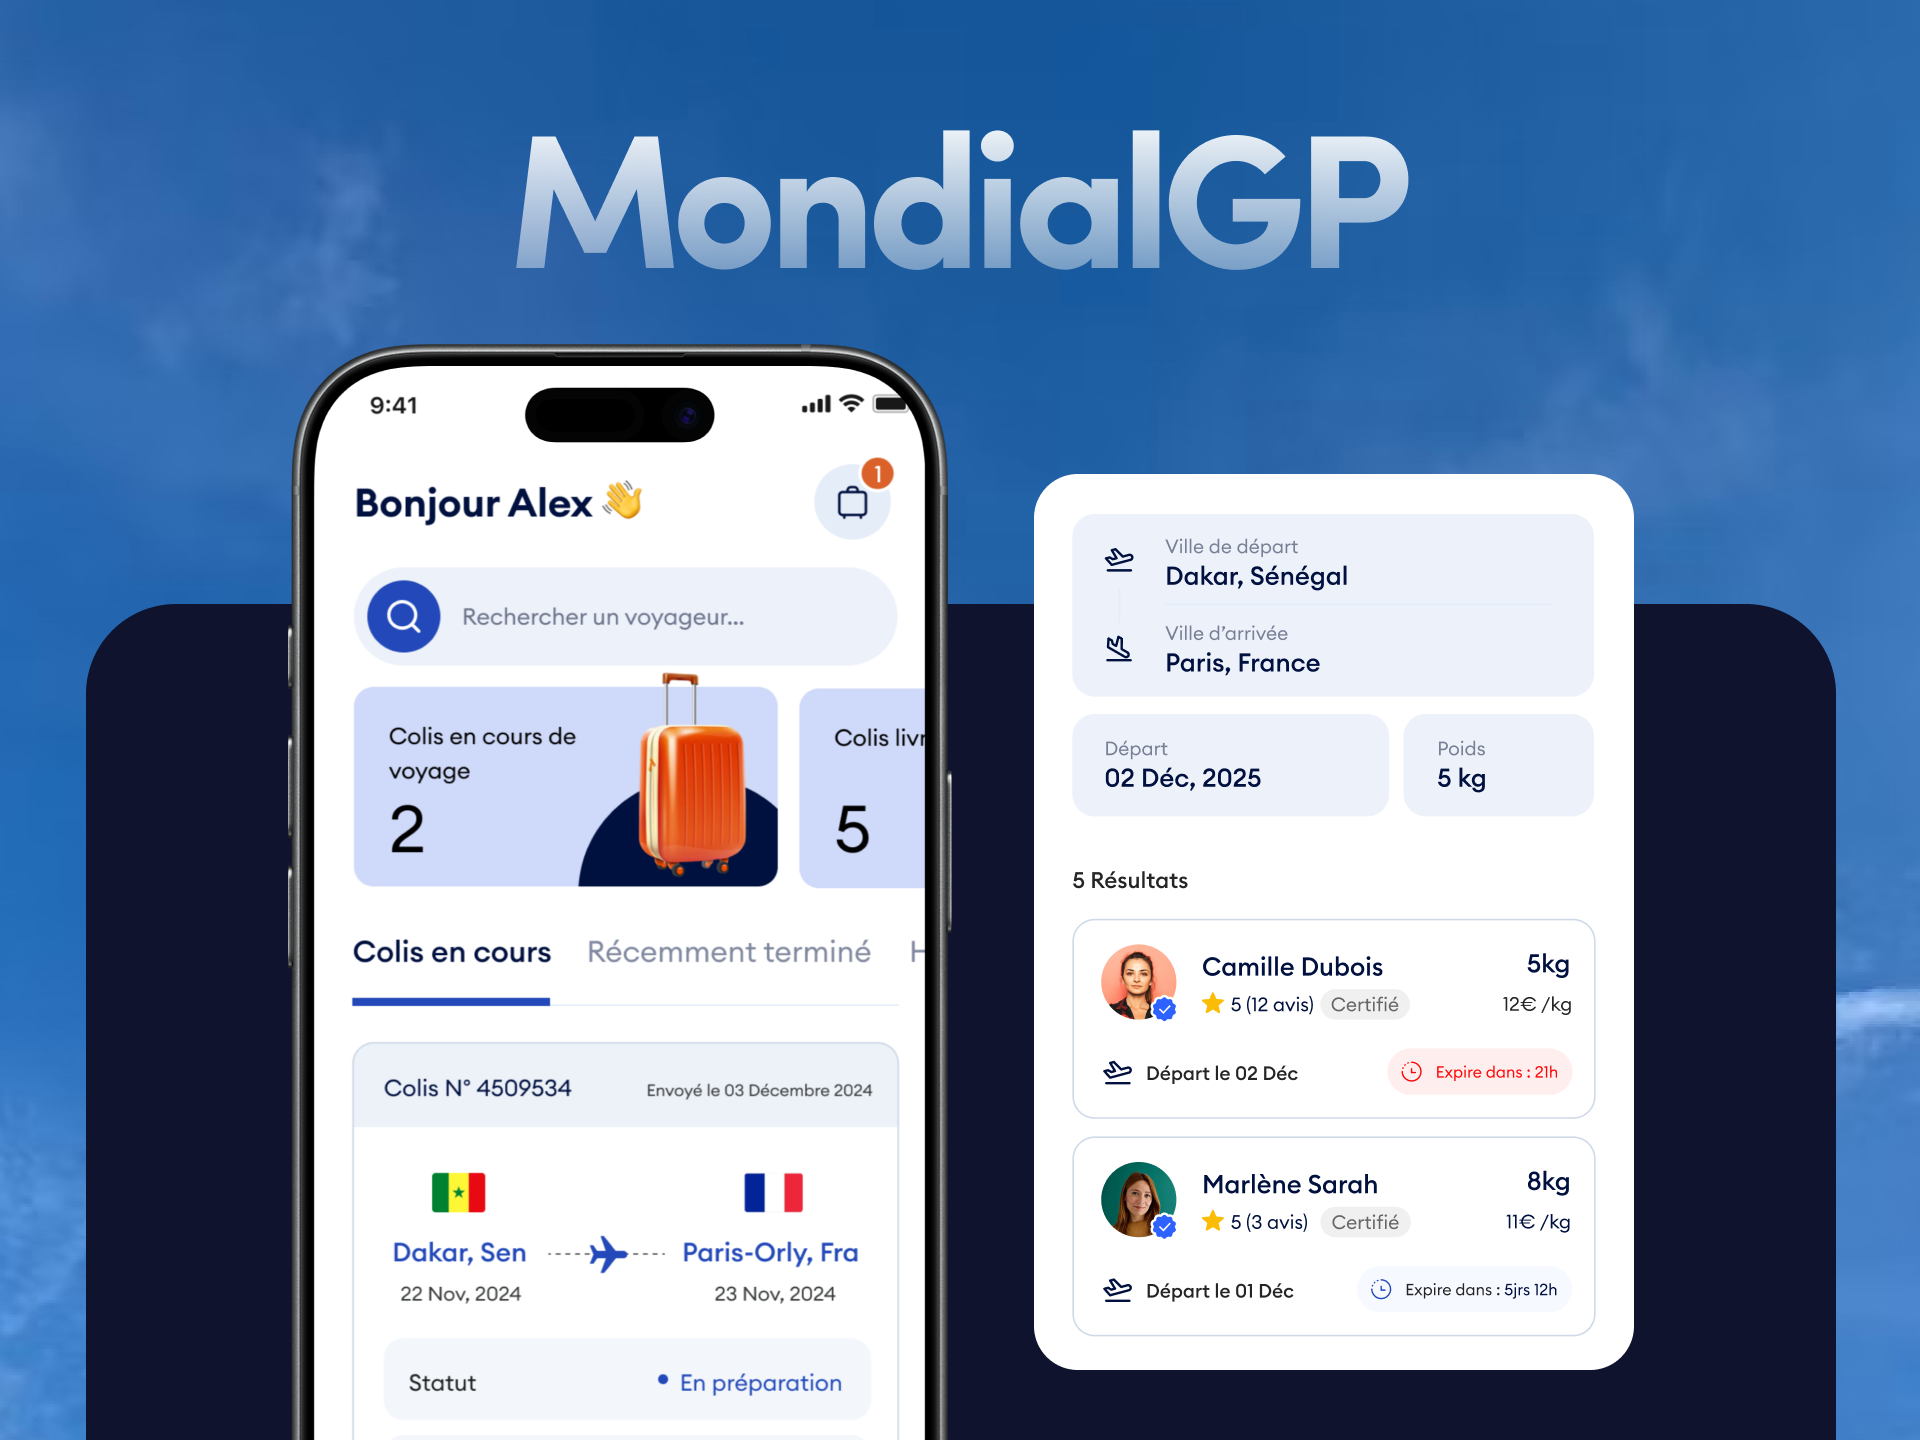
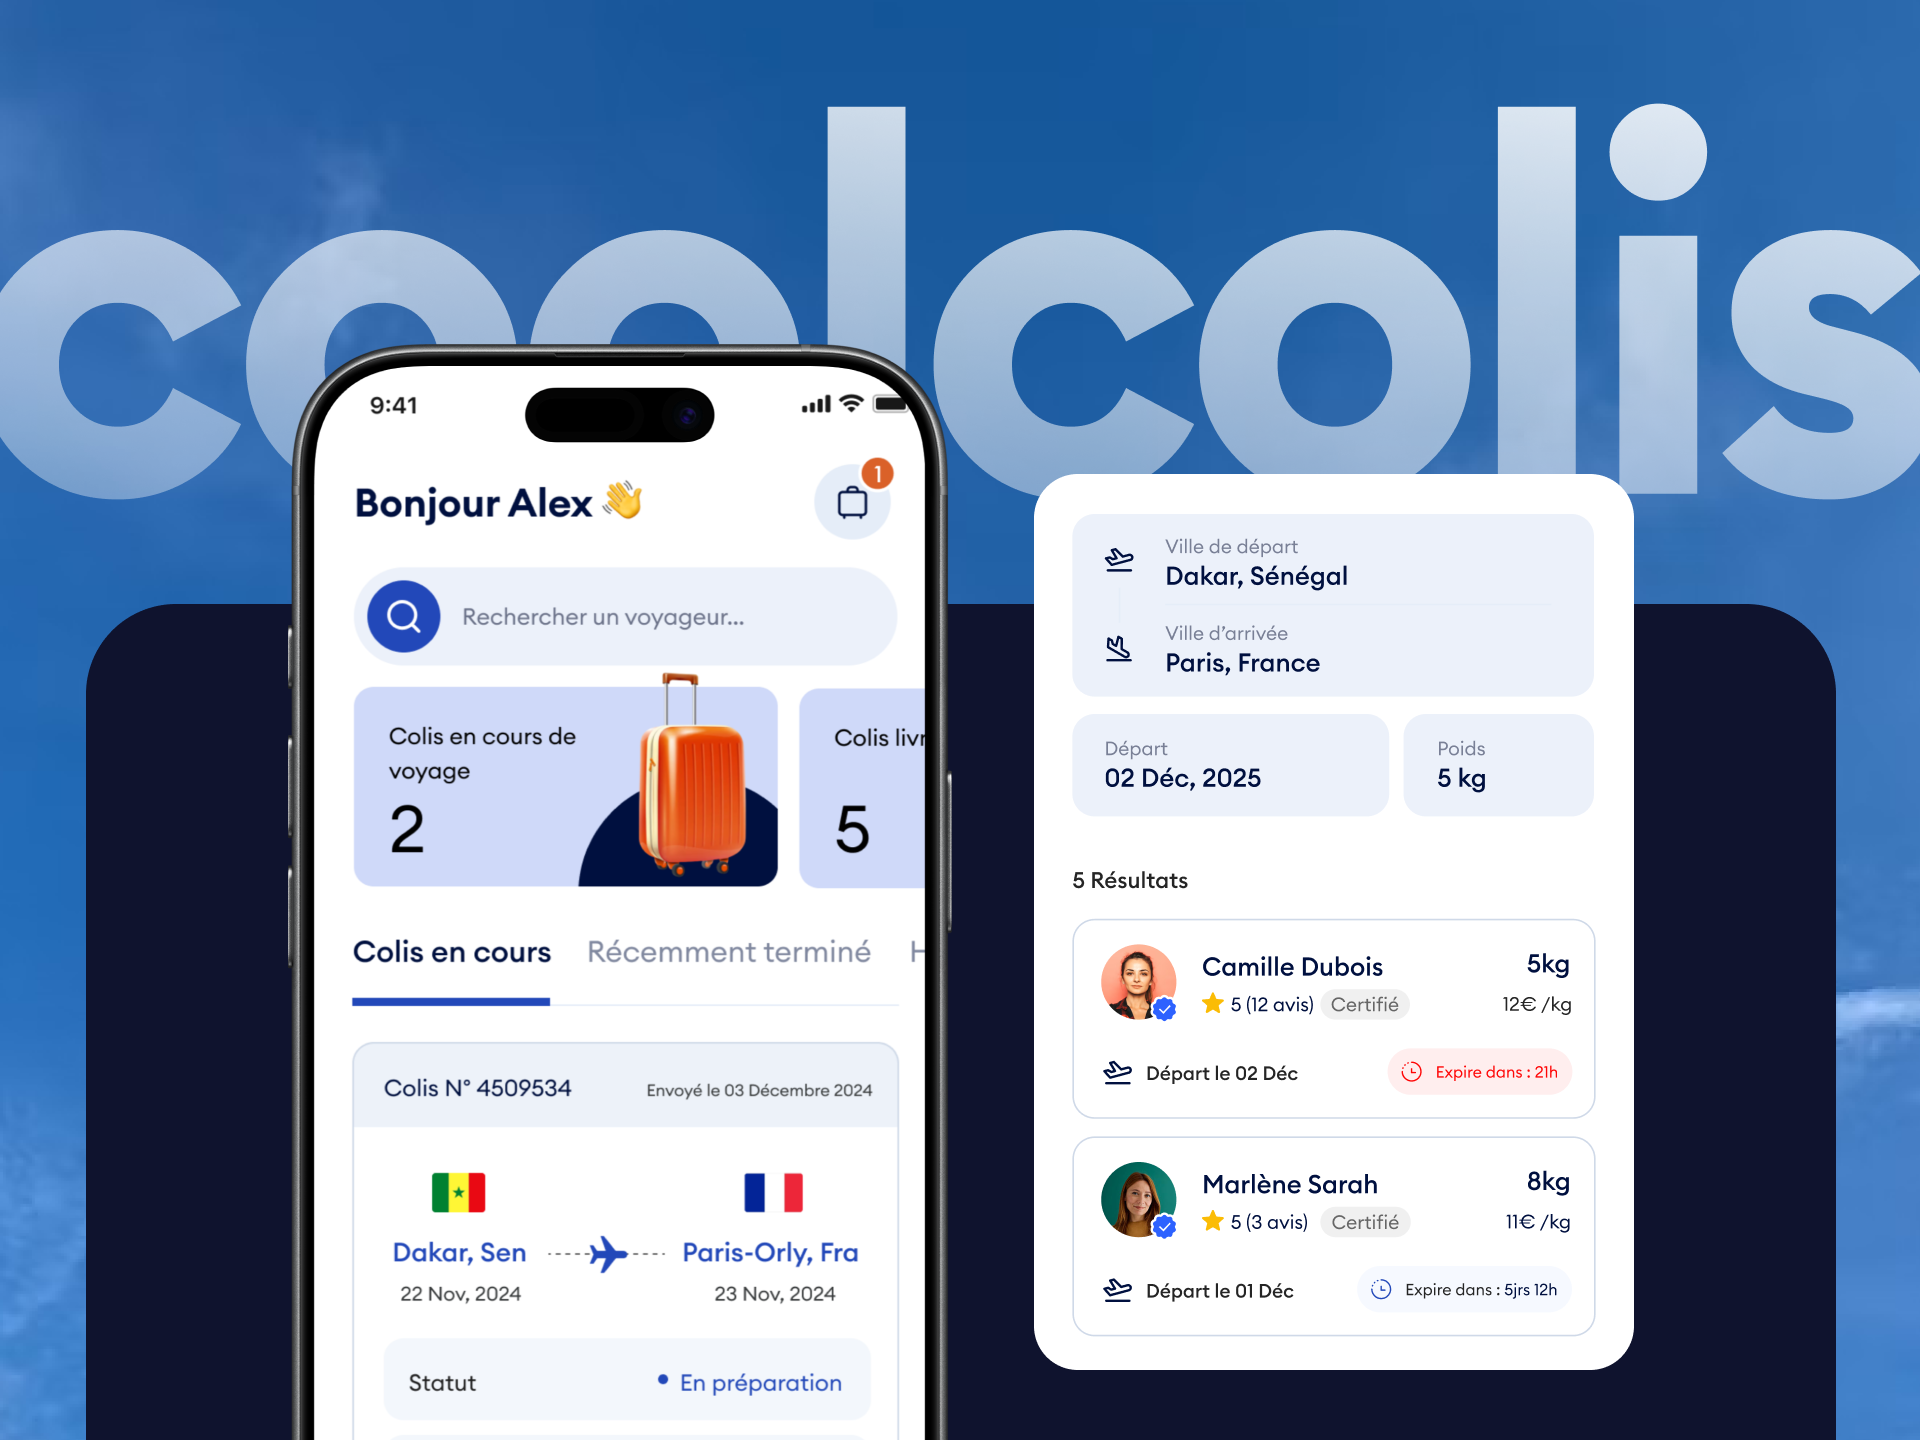
Update case study cover image and rename to Coolcolis

Changed region(s): [[0.0, 0.0625, 1.0, 0.3438]]

diff --git a/src/data/projects.ts b/src/data/projects.ts
@@ -20,8 +20,8 @@ export const projects: Project[] = [
   {
     slug: "fintech-mobile-redesign",
     title: {
-      fr: "MondialGP | Plateforme de crowdshipping",
-      en: "MondialGP | Crowdshipping Platform",
+      fr: "Coolcolis | Plateforme de crowdshipping",
+      en: "Coolcolis | Crowdshipping Platform",
     },
     tagline: {
       fr: "Simplifier le transfert d'argent pour de nouveaux utilisateurs.",
@@ -31,7 +31,7 @@ export const projects: Project[] = [
     year: "2024",
     tags: ["Application mobile", "Logistique"],
     gradient: ["#fdba74", "#c2410c"],
-    cover: "/CaseCover1.png?v=5",
+    cover: "/CaseCover1.png?v=6",
     externalUrl: "https://www.behance.net/gallery/255425233/UXUI-Case-Study-Crowdshipping-App",
   },
   {
